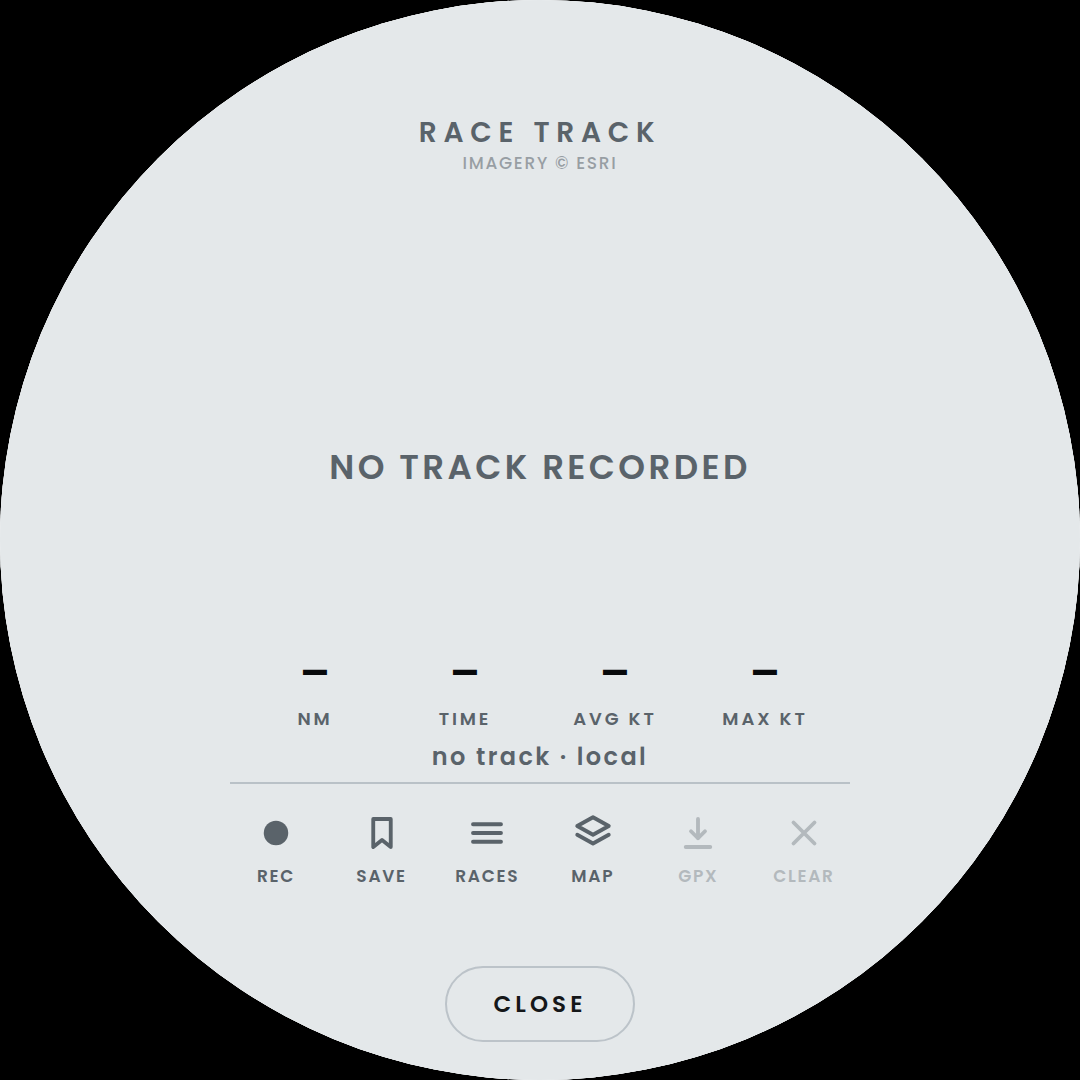
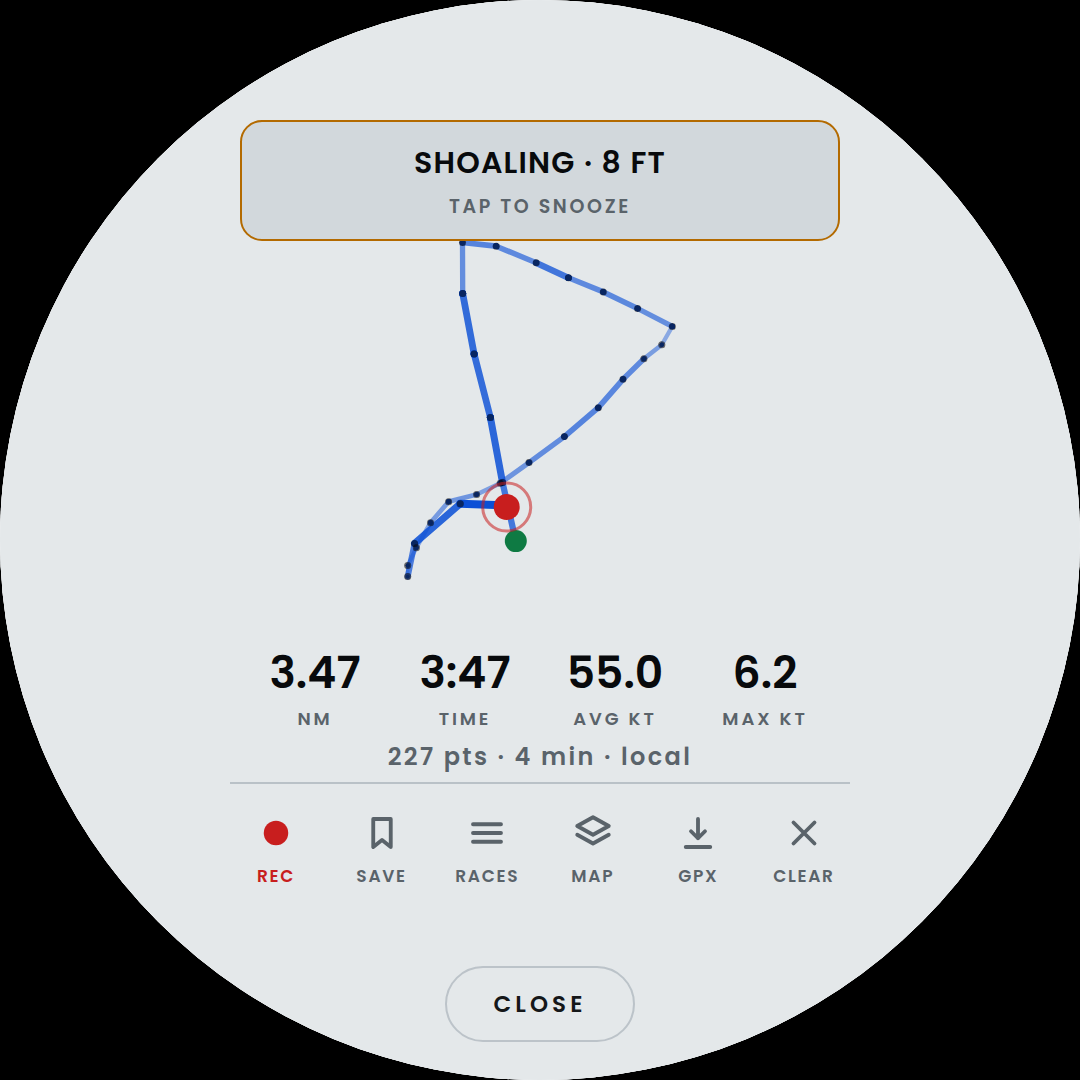
Demo: play a real sail out of Lake Monroe Marina, not a sine
The DEMO pill's feed swept the apparent wind through 280 degrees on a
sine - the mark went right round the bezel every seventy seconds - and
wandered the heading forty-four degrees. A second, code-only feed sailed
an S whose course swung a hundred. The compass card follows heading, so
either one slewed the whole face in a way no boat on a leg does.

Both are replaced by one player over a real track: a loop out of Lake
Monroe Marina, Sanford, on the evening of 2026-09-09. North up the
channel, east along the lake, three legs south-west to the mark, north-
east and south-east home. 73.6 minutes, 3.8 nm, off an Apple Watch at
1.75 s a point. Resampled to an 8-second grid and delta-encoded - lat
and lon in hundred-thousandths of a degree, course in whole degrees the
short way round - so 552 points are 4.8 KB inside the one file. Within a
metre of the raw track on average, 5.4 m worst, which is the watch's own
jitter. Decodes back to the grid to the centimetre. The GPX is not
committed: it carries a heart-rate trace.

The file has position, time and GPS course. Everything else is
reconstructed to agree with it. True wind is Open-Meteo's history for
that grid square and evening - 4.8 kt from 047 at 18:00 falling to 2.3
from 024 by 19:00, gusts to 9.5 - interpolated across the sail; the
20:00 figure of 1.2 kt from 219 is a direction with no wind behind it,
so direction holds after 19:00 rather than swinging to it. Apparent wind
[…]

diff --git a/confluence_helm.html b/confluence_helm.html
@@ -1819,9 +1819,10 @@ const CFG={
      all, which on the water is precisely when you want it. Outside the
      cached box the map simply shows no imagery; the track still draws,
      and anything fetched at runtime lands in IndexedDB instead.      */
-  /* windDemo makes up wind and depth so the bezel animation and the
-     shallow alarm can be judged before the vane and transducer are
-     fitted. It writes into the same store the real sensors use.
+  /* windDemo plays a real sail - position, course, wind, depth, heel -
+     so every page can be judged before any instrument is fitted. It
+     writes into the same store the real sensors use, and defers to each
+     real one path by path.
 
      There is a SENSORS row on the control panel for this now, it is in
      PREF_DEFS so the choice survives a reload, and demoSet() switches it
@@ -2030,7 +2031,7 @@ function skMessage(data){
 }
 
 function connect(){
-  if(CFG.demo){setLink('var(--warn)','DEMO');return demo();}
+  if(CFG.demo){setLink('var(--warn)','DEMO');return demoSet(true);}
   try{ws=new WebSocket(`ws://${CFG.host||location.host}/signalk/v1/stream?subscribe=none`);}
   catch(e){return setTimeout(connect,retry);}
   ws.onopen=()=>{setLink('var(--stbd)','SIGNAL K');retry=1000;
@@ -2054,35 +2055,7 @@ function connect(){
     retry=Math.min(retry*1.6,15000);setTimeout(connect,retry);};
   ws.onerror=()=>ws.close();
 }
-function demo(){
-  // a boat sailing a slow S off Lake Monroe, so the track recorder and
-  // the GPX export can actually be exercised with no GPS attached
-  let t=0, dLat=28.8035, dLon=-81.2980, cog=0.9;
-  setInterval(()=>{
-    bootReady();                  /* demo mode is a boat, for these purposes */
-    t+=.05;
-    const sog=(5.4+Math.sin(t*.7)*.8)/MS_TO_KT;      // m/s
-    cog += Math.sin(t*0.09)*0.004;
-    const dt=0.12;                                    // seconds per tick
-    dLat += (sog*dt*Math.cos(cog))/111320;
-    dLon += (sog*dt*Math.sin(cog))/(111320*Math.cos(dLat*Math.PI/180));
-    put('pos.lat',dLat); put('pos.lon',dLon);
-    put('navigation.speedOverGround',sog);
-    put('navigation.courseOverGroundTrue',cog);
-    put('environment.depth.belowTransducer',(18+Math.sin(t*.3)*6)/M_TO_FT);
-    put('environment.wind.angleApparent',(38+Math.sin(t*.9)*11)/DEG);
-    put('environment.wind.angleTrueWater',(52+Math.sin(t*.6)*9)/DEG);
-    put('environment.wind.speedTrue',(9.5+Math.sin(t*.4)*1.5)/MS_TO_KT);
-    put('environment.wind.directionTrue',(cog*DEG+52+Math.sin(t*.2)*6)/DEG);
-    put('att.roll',(12+Math.sin(t*.8)*5)/DEG);
-    /* The rest of what the 9-axis puts on the wire, so the readings that
-       come off it are exercisable with nothing plugged in - a menu row
-       that always reads a dash is a row nobody can check. Rate of turn
-       is the S the demo is already sailing, in rad/s, so it agrees with
-       the course it is steering. */
-    put('att.pitch',(3+Math.sin(t*.5)*4)/DEG);
-    put('navigation.rateOfTurn', Math.cos(t*0.09)*0.09*0.004/0.12);
-  },120);}
+
 
 /* ==================================================================
    SUN TIMES  (NOAA approximation, same maths as SunCalc)
@@ -4701,10 +4674,87 @@ function paintBezel(){
   }
 }
 
+/* ---- the demo is a real sail ------------------------------------------
+   This is what the DEMO pill on the control panel plays, and what a boat
+   with no instruments shows by default.
+   A loop out of Lake Monroe Marina, Sanford, on the evening of
+   2026-09-09: north up the channel, east along the lake, three legs
+   south-west to the mark, north-east and then south-east home. 73.6
+   minutes and 3.8 nm, off an Apple Watch at 1.75 s a point.
+   It replaced two made-up feeds. The panel's demo swept the apparent
+   wind through 280 degrees on a sine - the mark went right round the
+   bezel every seventy seconds - and wandered the heading forty-four
+   degrees; a code-only one sailed an S whose course swung a hundred.
+   The compass card follows heading, so both slewed the whole face in a
+   way no boat on a leg does. A real track holds its bearings and tacks.
+
+   Resampled onto an 8-second grid and delta-encoded - lat and lon in
+   hundred-thousandths of a degree (1.1 m), course in whole degrees
+   wrapped to the short way round - so 552 points are 4.8 KB inside the
+   one file rather than a second file to fetch. Within a metre of the raw
+   track on average, 5.4 m at worst, which is the watch's own jitter.
+   The GPX itself is not in the repo: it carries a heart-rate trace.
+
+   What the file has is position, time and GPS course. Everything else a
+   boat publishes is reconstructed so that it AGREES with the track:
+   - true wind is Open-Meteo's history for that grid square and evening,
+     4.8 kt from 047 at 18:00 falling to 2.3 kt from 024 by 19:00 with
+     gusts to 9.5, interpolated across the sail. The 20:00 reading was
+     1.2 kt from 219 - a direction with no wind behind it - so direction
+     holds and drifts after 19:00 rather than swinging to it;
+   - apparent wind is the vector difference of that and the boat's own
+     velocity, so it flips sides at each tack on the right bearing;
+   - heading is the GPS course plus the local declination (6.6 W), so
+     HDING and COG differ by the amount they really do here;
+   - heel follows apparent wind, depth follows distance from the marina
+     (the channel is thin, the lake is not), pitch is noise. Those three
+     are invented and say so. */
+const DEMO_TRACK={lat0:28.81893,lon0:-81.26246,crs0:322,step:8,
+ dlat:[14,15,17,17,17,17,16,15,13,16,16,17,16,16,16,16,17,16,16,18,15,16,17,15,17,17,17,18,17,18,19,19,19,20,19,19,19,18,18,17,18,17,17,18,17,16,17,17,19,17,17,17,19,18,18,18,17,17,17,18,17,16,16,17,16,17,16,17,18,16,17,16,16,15,16,17,17,17,17,16,17,16,16,16,16,15,15,16,17,16,15,15,14,13,12,12,11,11,11,11,10,10,11,12,8,2,-1,-5,-5,-5,-4,-5,-5,-5,-5,-4,-5,-5,-4,-3,-5,-4,-4,-5,-4,-5,-5,-4,-5,-6,-4,-5,-4,-4,-5,-4,-5,-5,-6,-3,-4,-5,-7,-6,-5,-6,-5,-3,-4,-3,-4,3,-9,-1,-1,-12,-3,-3,-1,-5,-2,-6,-3,0,-7,-2,-3,-4,-5,-4,-5,-4,-3,-2,-6,-3,-3,-6,-4,-3,-4,-6,-4,-4,-4,-5,-4,-5,-6,-5,-4,-3,-4,-2,-4,-4,-6,-5,-4,-6,-6,-5,-5,-4,-6,-4,-2,0,-4,-6,-5,-6,-5,-6,-4,-5,-7,-6,-6,-5,-6,-7,-6,-7,-9,-9,-9,-6,-5,-6,-4,-4,-3,-3,-3,-4,-3,-4,-3,-4,-3,-4,-4,-5,-4,-4,-4,-4,-5,-4,-4,-4,-5,-4,-1,-2,-1,-4,-4,-5,-4,-5,-4,-5,-4,-4,-5,-4,-4,-4,-4,-6,-7,-6,-8,-6,-5,-8,-8,-7,-7,-7,-8,-8,-7,-8,-9,-7,-7,-8,-6,-8,-7,-6,-6,-6,-9,-10,-9,-9,-9,-9,-8,-9,-8,-9,-7,-8,-9,-10,-8,-8,-8,-8,-6,-8,-7,-8,-6,-8,-7,-8,-8,-6,-7,-7,-8,-7,-6,-7,-7,-7,-7,-6,-7,-8,-9,-9,-7,-8,-6,-5,-6,-6,-8,-5,-4,-2,-4,-6,-7,-8,-8,-6,-7,-5,-6,-5,-5,-6,-5,-4,-5,-4,-3,-3,-2,-3,-3,-3,-3,-3,-2,-3,-3,-3,-3,-3,-3,-4,-3,-3,-3,-2,-3,-3,-2,-3,-1,-3,-2,-1,-2,-3,-2,-2,0,-2,-1,-1,-2,-2,-1,-2,-2,-2,-2,-3,-5,-5,-4,-5,-6,-6,-8,-10,-10,-7,-9,-9,-8,-9,-7,-7,-8,-7,-7,-7,-7,-6,-6,-7,-7,-7,-6,-7,-7,-7,-6,-7,-7,-7,-6,-7,-6,-6,-5,-5,-5,-5,-4,-5,-4,-4,-5,-4,-5,-5,-4,-5,-4,-5,-4,-5,-4,-5,-6,-4,-5,-5,-6,-5,-4,-2,0,1,0,-1,-1,-2,-3,-2,0,2,5,5,8,9,10,10,10,10,10,10,10,10,10,10,10,11,11,12,12,13,12,13,12,11,11,11,12,10,10,11,11,10,12,9,6,9,12,12,10,9,5,5,5,5,5,6,6,6,7,7,8,7,-1,-9,-10,-11,-16,-21,-23,-23,-21,-21,-20,-21,-23,-23,-23],
+ dlon:[-11,-10,-6,-5,-5,-4,-2,0,-3,-4,-5,-5,-4,-5,-4,-4,-3,-3,-2,-1,-2,-2,-1,-2,-2,-1,-4,-1,-3,-6,-5,-2,-3,-2,-2,-5,-7,-8,-8,-8,-5,-5,-8,-4,-4,-7,-7,-7,-7,-6,-6,-6,-5,-3,-3,-3,-3,-5,-4,-5,-3,-5,-5,-4,-6,-4,-1,-1,-1,-3,-2,-4,-3,-4,-5,-4,-5,-5,-3,-3,-4,-4,-3,-5,-2,-1,-1,-2,-1,1,2,1,0,0,2,1,1,2,3,3,4,3,2,3,7,9,6,11,12,13,12,13,14,14,14,13,13,14,14,12,13,13,14,13,13,14,14,13,12,13,12,12,12,12,12,12,11,11,13,12,12,11,11,12,11,11,12,11,11,10,9,11,11,3,2,22,10,11,3,16,3,16,9,0,19,2,9,13,18,15,10,12,13,4,17,7,8,14,12,9,11,11,10,9,9,10,11,10,9,9,11,12,15,9,11,10,10,12,11,12,13,12,12,11,12,13,13,11,12,11,12,11,10,10,11,10,11,9,9,9,9,9,9,8,6,1,-3,-6,-9,-6,-6,-5,-8,-8,-6,-6,-7,-6,-5,-6,-6,-4,-6,-4,-5,-5,-3,-6,-4,-5,-4,-5,-4,-7,-8,-7,-8,-7,-6,-6,-7,-6,-5,-5,-4,-5,-5,-4,-4,-5,-6,-7,-6,-6,-6,-8,-10,-8,-9,-9,-10,-10,-10,-11,-10,-9,-9,-8,-7,-7,-7,-6,-3,-6,-7,-10,-8,-8,-7,-5,-7,-9,-8,-10,-10,-10,-12,-12,-8,-7,-8,-9,-10,-11,-12,-11,-12,-13,-13,-13,-12,-11,-11,-12,-12,-11,-11,-12,-10,-12,-11,-10,-11,-13,-12,-12,-11,-10,-11,-10,-10,-9,-10,-9,-8,-9,-11,-12,-12,-12,-12,-10,-9,-8,-8,-8,-7,-7,-7,-7,-7,-7,-9,-7,-8,-8,-7,-8,-7,-7,-7,-7,-7,-6,-7,-7,-8,-8,-8,-8,-7,-7,-7,-7,-7,-7,-7,-8,-7,-9,-9,-9,-9,-10,-9,-9,-9,-10,-10,-11,-10,-10,-10,-9,-8,-9,-10,-8,-6,-4,-6,-5,-4,-3,-2,-1,-5,-5,-5,-5,-5,-5,-4,-5,-3,-4,-5,-6,-5,-5,-5,-5,-5,-4,-4,-5,-4,-4,-5,-5,-3,-3,-2,-3,-3,-3,-3,-2,-3,-2,-3,-2,-4,-3,-2,-2,-3,-2,-3,-3,-3,-3,-3,-4,-3,-3,-3,-4,-3,-2,-2,0,2,3,4,2,2,0,1,3,4,3,2,0,-4,-3,-2,0,2,3,3,2,1,2,3,2,1,3,5,6,6,6,8,9,9,8,10,9,10,12,14,17,18,17,18,17,17,21,18,16,13,16,18,18,19,18,16,15,18,16,17,16,15,15,16,14,10,6,9,10,9,3,1,1,5,6,6,2,0,-2,1],
+ dcrs:[-2,15,13,-2,0,6,9,-6,-8,-7,6,0,0,-3,6,2,1,1,0,3,-6,5,1,-5,5,-2,0,7,-15,-4,7,6,-2,0,0,-4,-11,3,-4,6,2,-4,-1,11,-7,-2,-1,-1,-1,0,7,-1,4,0,2,-2,-2,0,-2,5,1,-6,1,-1,-5,15,-1,1,-1,0,-1,-4,-1,-1,0,-2,-2,6,3,-1,-5,5,-5,0,9,-2,1,1,5,2,0,0,0,4,-3,4,0,2,0,10,-2,8,-16,0,42,24,46,-3,-6,-1,7,-3,-5,6,2,-8,2,-3,-1,1,5,-2,-5,2,3,-2,1,1,4,-1,-2,-1,1,0,0,2,1,1,0,-8,7,3,4,-5,4,-10,3,-10,6,4,0,0,3,-2,0,-3,-2,2,-2,0,4,-4,0,3,2,-2,-6,0,-1,6,0,-7,3,0,4,3,-1,-1,1,-2,1,3,-1,0,-4,11,-2,3,-1,-4,-5,-8,1,4,0,4,5,-4,-2,5,-2,0,-1,6,-8,-7,-7,-10,25,3,-2,6,1,-3,-5,5,5,4,-3,4,1,-3,-2,11,23,24,26,14,2,-3,10,14,-2,-4,-2,-6,9,-7,5,-4,0,-2,1,-7,-1,-6,0,-24,23,-8,0,12,2,1,30,-8,7,-20,2,-7,1,-2,-3,-2,-1,1,1,-5,5,-2,1,-1,-10,-1,2,24,-9,-5,-5,11,1,-1,-1,-1,1,-5,-5,10,-14,4,0,-9,-13,21,13,-5,-6,-8,-2,-3,9,4,4,-3,4,3,3,4,-19,-4,6,8,4,1,4,-2,-1,2,7,-4,-5,-4,2,4,2,-4,-4,8,-3,5,-5,0,2,10,-10,-3,-1,-3,0,0,20,-18,8,-12,2,12,12,-1,-4,-13,-4,-1,-5,2,-2,-1,6,2,4,-8,5,4,0,0,12,1,2,-11,5,-1,-1,4,-2,0,-3,-4,6,-2,5,-8,3,4,2,-5,1,8,-5,8,-6,7,1,-2,2,0,-3,2,6,-2,-1,8,-5,-6,-4,1,-1,2,1,-7,-30,0,9,-13,-6,-8,-19,16,9,0,0,-2,6,-1,1,-6,-3,4,5,7,-1,-5,8,-12,2,0,2,-4,3,-5,7,-6,-3,-3,0,13,-5,-5,1,-5,10,0,-4,2,2,-3,0,1,1,-3,2,1,-1,-2,9,-3,8,-16,7,-3,2,-3,-31,6,-48,-31,-5,0,0,0,0,24,-1,2,0,-136,-28,20,-2,29,7,-2,-2,-6,11,-4,7,-10,2,10,3,5,-3,4,0,3,2,1,2,0,9,5,-3,16,-10,3,2,-9,9,11,-6,-10,-6,2,11,11,5,-1,-5,6,-12,5,2,-7,-6,6,-5,1,86,1,-18,20,13,13,8,-15,1,-1,-2,11,3,-2,0]};
+const DEMO_SPEED=20;                 /* 74 real minutes in 3.7 */
+const DEMO_DECL=6.6;                 /* magnetic declination at Sanford, 2026, west */
+const DEMO_WIND=[                    /* [minutes after 18:00, kt, from deg, gust kt] */
+  [0, 4.8, 47, 9.5], [60, 2.3, 24, 7.2], [120, 1.2, 24, 3.9]];
+const DEMO_T0_MIN=25.3;              /* the watch started at 18:25:19 local */
+const demo=()=>demoSet(true);         /* what CFG.demo used to call by name */
+
+function demoTrack(t){               /* seconds into the sail -> a point */
+  const D=DEMO_TRACK, n=D.dlat.length+1;
+  const f=t/D.step, k=Math.min(n-2, Math.floor(f)), r=Math.min(1, f-k);
+  /* Walked from the start each call rather than kept as running sums,
+     which is 552 adds at 8 Hz - nothing - and means the loop cannot
+     accumulate a drift when it wraps. */
+  let lat=0,lon=0,crs=D.crs0;
+  for(let i=0;i<k;i++){ lat+=D.dlat[i]; lon+=D.dlon[i]; crs=(crs+D.dcrs[i]+360)%360; }
+  const lat1=lat+D.dlat[k], lon1=lon+D.dlon[k];
+  const dc=D.dcrs[k];                              /* already the short way round */
+  return {lat:D.lat0+(lat+(lat1-lat)*r)/1e5,
+          lon:D.lon0+(lon+(lon1-lon)*r)/1e5,
+          crs:(crs+dc*r+360)%360,
+          /* the segment's own speed, from the grid: distance over 8 s */
+          sog:Math.hypot(D.dlat[k]*1.1132, D.dlon[k]*1.1132*Math.cos(D.lat0/DEG))/D.step,
+          rot:dc/D.step};
+}
+function demoWind(t){                /* seconds into the sail -> true wind */
+  const m=DEMO_T0_MIN+t/60, W=DEMO_WIND;
+  let a=W[0], b=W[W.length-1];
+  for(let i=0;i<W.length-1;i++) if(m>=W[i][0]&&m<=W[i+1][0]){ a=W[i]; b=W[i+1]; break; }
+  const f=Math.max(0,Math.min(1,(m-a[0])/(b[0]-a[0]||1)));
+  const kt=a[1]+(b[1]-a[1])*f, gust=a[3]+(b[3]-a[3])*f;
+  /* Direction only interpolates while there is wind to have one -
+     between 047 and 024 - and drifts a little either side after, the way
+     a dying breeze wanders. Speed carries a slow pulse up towards the
+     gust figure, so the light air is not a flat line. */
+  const from=(m<=60 ? a[2]+(b[2]-a[2])*f : W[1][2]) + 9*Math.sin(t/95) + 4*Math.sin(t/23);
+  const spd=kt + (gust-kt)*0.35*(0.5+0.5*Math.sin(t/41)) + 0.4*Math.sin(t/7);
+  return {kt:Math.max(0.3,spd), from:(from+360)%360};
+}
+
 /* ---- demo feed (CFG.windDemo) -----------------------------------------
-   A slow sweep across both tacks so the bezel has something to animate.
-   Deliberately not a straight ramp: real apparent wind wanders, and a
-   linear sweep makes the easing look wrong when it is actually right. */
+   Plays the sail below. One feed, one switch: the DEMO pill on the panel
+   and CFG.demo (no socket at all) both come here. */
 let demoT=0;
 
 /* Everything the feed fabricates, in one list, so the switch below can
@@ -4712,11 +4762,17 @@ let demoT=0;
 const DEMO_PATHS=['environment.wind.angleApparent',
                   'environment.wind.speedApparent',
                   'environment.wind.speedTrue',
+                  'environment.wind.angleTrueWater',
+                  'environment.wind.directionTrue',
                   'environment.depth.belowTransducer',
-                  'navigation.speedOverGround'];
-/* The subset that means a real instrument has appeared. SOG is not on it
-   - the feed already defers to a real SOG, so a GPS fix alone is no
-   evidence the vane is fitted. */
+                  'navigation.speedOverGround',
+                  'navigation.courseOverGroundTrue',
+                  'navigation.headingMagnetic',
+                  'navigation.rateOfTurn',
+                  'pos.lat','pos.lon','att.roll','att.pitch'];
+/* The subset that means a real instrument has appeared. The GPS group is
+   not on it - the feed already defers to a real fix, position and all,
+   so a GPS alone is no evidence the vane is fitted. */
 const DEMO_REAL=['environment.wind.angleApparent',
                  'environment.wind.speedApparent',
                  'environment.wind.speedTrue',
@@ -4732,7 +4788,9 @@ function demoSet(on, why){
        on its last value, so leaving it would hold the bezel on a
        fabricated bearing until a real reading happened to arrive. */
     DEMO_PATHS.forEach(p=>{ delete S[p]; });
-    ['awa','twa','tws','dpt','vmg'].forEach(k=>{ delete sm[k]; delete smA[k]; });
+    ['awa','twa','tws','dpt','vmg','sog','hdg'].forEach(k=>{ delete sm[k]; delete smA[k]; });
+    /* and the readings' own filters, which are keyed r_<reading> */
+    MUS_CELLS.forEach(c=>{ delete sm['r_'+c.k]; delete smA['r_'+c.k]; });
     bezelCont=null;
   }
   drawDemo(); prefsSave();
@@ -4746,20 +4804,54 @@ function drawDemo(){
 
 function windDemoTick(){
   if(!CFG.windDemo) return;
-  demoT+=0.25;
-  const awa=Math.sin(demoT/11)*140 + Math.sin(demoT/2.7)*6;
+  bootReady();                        /* demo mode is a boat, for these purposes */
+  demoT=(demoT+0.12*DEMO_SPEED)%(DEMO_TRACK.dlat.length*DEMO_TRACK.step);
+  const P=demoTrack(demoT), W=demoWind(demoT);
+  /* The GPS group defers to a real fix, path by path: a boat with a GPS
+     and no vane keeps its own position and course and gets only the wind
+     made up. Written unconditionally, the demo's Sanford would fight the
+     real fix at 8 Hz and the track recorder would draw both. */
+  const own=p=>get(p)===null;
+  if(own('pos.lat')){ put('pos.lat',P.lat); put('pos.lon',P.lon); }
+  if(own('navigation.speedOverGround'))     put('navigation.speedOverGround',P.sog);
+  if(own('navigation.courseOverGroundTrue')) put('navigation.courseOverGroundTrue',P.crs/DEG);
+  if(own('navigation.headingMagnetic'))
+    put('navigation.headingMagnetic',((P.crs+DEMO_DECL)%360)/DEG);
+  if(own('navigation.rateOfTurn'))          put('navigation.rateOfTurn',P.rot/DEG);
+  /* apparent = true wind vector minus boat velocity, in the boat's
+     frame. Wind "from" F blows TOWARD F+180; the boat moves along its
+     course at sog. */
+  const tw=W.kt/MS_TO_KT, toRad=(W.from+180)/DEG, cr=P.crs/DEG;
+  const wx=tw*Math.sin(toRad)-P.sog*Math.sin(cr);
+  const wy=tw*Math.cos(toRad)-P.sog*Math.cos(cr);
+  const aws=Math.hypot(wx,wy);
+  let awa=(Math.atan2(wx,wy)*DEG - P.crs + 180);     /* where it comes FROM, off the bow */
+  awa=((awa%360)+360)%360; if(awa>180) awa-=360;
+  let twa=W.from-P.crs; twa=((twa%360)+360)%360; if(twa>180) twa-=360;
+  put('environment.wind.directionTrue', W.from/DEG);
+  put('environment.wind.speedTrue',     tw);
+  put('environment.wind.speedApparent', aws);
   put('environment.wind.angleApparent', awa/DEG);
-  put('environment.wind.speedApparent', (11+Math.sin(demoT/5)*3.2)/MS_TO_KT);
-  put('environment.wind.speedTrue',     (9.5+Math.sin(demoT/6)*2.4)/MS_TO_KT);
-  put('environment.depth.belowTransducer', (14+Math.sin(demoT/7)*5)/M_TO_FT);
-  put('navigation.headingMagnetic', ((247+Math.sin(demoT/9)*22)%360)/DEG);
-  if(get('navigation.speedOverGround')===null)
-    put('navigation.speedOverGround', (5.6+Math.sin(demoT/6)*0.9)/MS_TO_KT);
+  put('environment.wind.angleTrueWater',twa/DEG);
+  /* heel: a keelboat in light air - about 12 degrees on a beam reach in
+     12 kt apparent, growing with the square of the wind */
+  const heel=Math.min(25, 12*Math.pow(aws*MS_TO_KT/12,2))*Math.sin(awa/DEG);
+  put('att.roll', -heel/DEG);                       /* + roll is starboard down */
+  put('att.pitch',(1.5+1.2*Math.sin(demoT/3.1)+0.6*Math.sin(demoT/1.3))/DEG);
+  /* depth: 5 ft in the channel, 9 or so out in the lake, with the
+     sounder's own flicker */
+  const off=Math.hypot((P.lat-DEMO_TRACK.lat0)*111320,
+                       (P.lon-DEMO_TRACK.lon0)*111320*Math.cos(P.lat/DEG));
+  const ft=5+4.5*Math.min(1,off/700)+0.4*Math.sin(demoT/5.7)+0.15*Math.sin(demoT/1.1);
+  put('environment.depth.belowTransducer', ft/M_TO_FT);
 }
 /* left running rather than conditionally started, so the flag can be
-   flipped live from a console without a reload. Four no-op calls a
-   second when off is not measurable. */
-setInterval(windDemoTick, 250);
+   flipped live from a console without a reload. Eight no-op calls a
+   second when off is not measurable. 120 ms rather than 250 because the
+   sail plays at twenty times life and a tack that took twenty seconds
+   takes one: at four frames it stepped, at eight the bezel's own
+   smoothing carries it. */
+setInterval(windDemoTick, 120);
 $('demo-btn').addEventListener('click',()=>demoSet(!CFG.windDemo));
 drawDemo();
 
